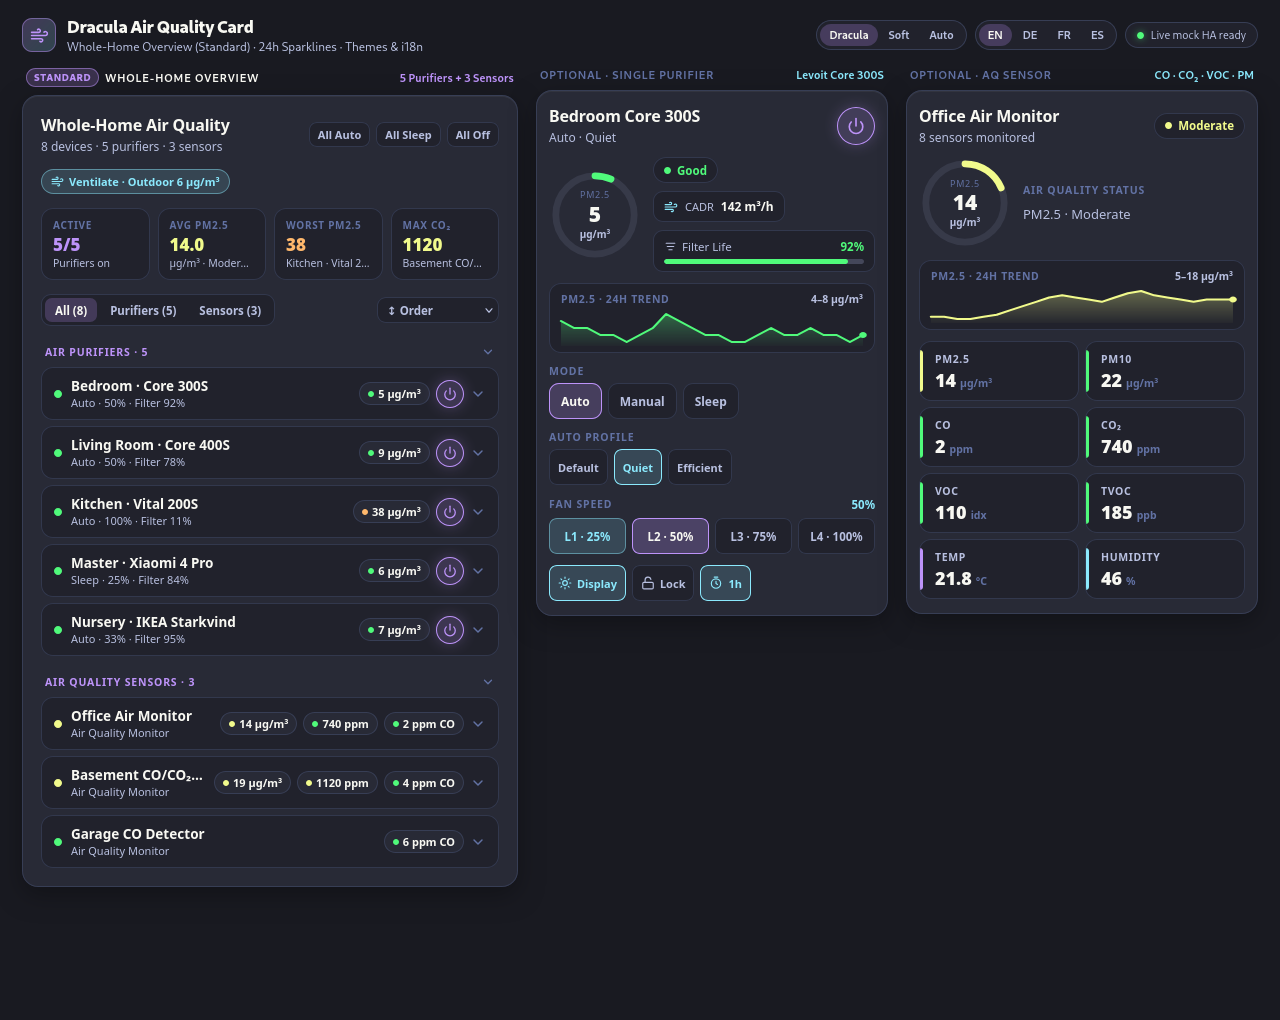
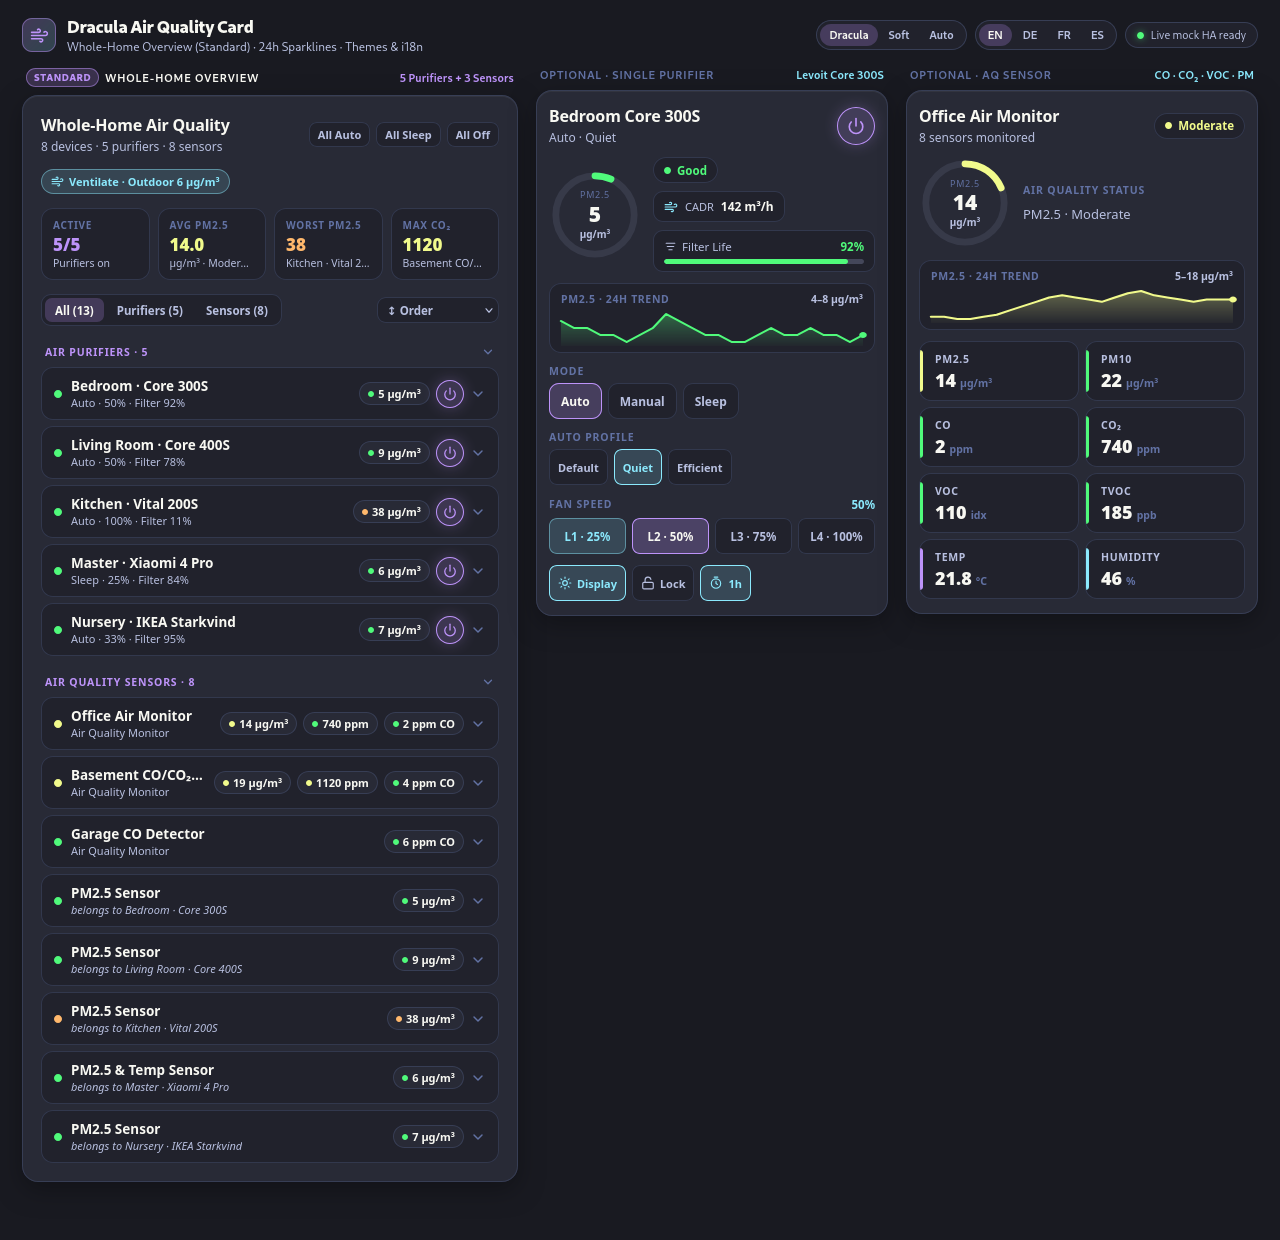
v1.5.0: Surface built-in purifier sensors in Air Quality Sensors group with italic attribution

diff --git a/dracula-air-quality-card.js b/dracula-air-quality-card.js
@@ -6,7 +6,7 @@
  *   3. Standalone Air Quality Sensor Mode (Optional — PM2.5/10/1, AQI, CO, CO2, VOC/tVOC, NOx/NO2, O3, HCHO, Radon, Temp, Humidity, Pressure)
  */
 
-const CARD_VERSION = "1.4.0";
+const CARD_VERSION = "1.5.0";
 const HISTORY_TTL_MS = 300_000;
 const HISTORY_CACHE = new Map();
 const HISTORY_INFLIGHT = new Set();
@@ -95,7 +95,7 @@ const I18N = {
     display: "Display", lock: "Lock", timer: "Timer", trend_24h: "24h Trend",
     sort_default: "Order", sort_pm25: "Worst PM2.5", sort_filter: "Low Filter", sort_name: "Name",
     devices_word: "devices", device_word: "device", sensors_monitored: "sensors monitored",
-    ventilate: "Ventilate", keep_closed: "Keep Closed", outdoor: "Outdoor",
+    ventilate: "Ventilate", keep_closed: "Keep Closed", outdoor: "Outdoor", belongs_to: "belongs to",
   },
   de: {
     good: "Gut", moderate: "Mäßig", sensitive: "Sensibel", unhealthy: "Ungesund",
@@ -114,7 +114,7 @@ const I18N = {
     display: "Display", lock: "Sperre", timer: "Timer", trend_24h: "24h Verlauf",
     sort_default: "Standard", sort_pm25: "PM2.5 hoch", sort_filter: "Filter niedrig", sort_name: "Name",
     devices_word: "Geräte", device_word: "Gerät", sensors_monitored: "Sensoren aktiv",
-    ventilate: "Lüften", keep_closed: "Geschlossen halten", outdoor: "Außen",
+    ventilate: "Lüften", keep_closed: "Geschlossen halten", outdoor: "Außen", belongs_to: "gehört zu",
   },
   fr: {
     good: "Bon", moderate: "Modéré", sensitive: "Sensible", unhealthy: "Malsain",
@@ -133,7 +133,7 @@ const I18N = {
     display: "Écran", lock: "Verrou", timer: "Minuterie", trend_24h: "Tendance 24h",
     sort_default: "Ordre", sort_pm25: "PM2.5 max", sort_filter: "Filtre bas", sort_name: "Nom",
     devices_word: "appareils", device_word: "appareil", sensors_monitored: "capteurs suivis",
-    ventilate: "Aérer", keep_closed: "Garder fermé", outdoor: "Extérieur",
+    ventilate: "Aérer", keep_closed: "Garder fermé", outdoor: "Extérieur", belongs_to: "appartient à",
   },
   es: {
     good: "Bueno", moderate: "Moderado", sensitive: "Sensible", unhealthy: "Insalubre",
@@ -152,7 +152,7 @@ const I18N = {
     display: "Pantalla", lock: "Bloqueo", timer: "Temporizador", trend_24h: "Tendencia 24h",
     sort_default: "Orden", sort_pm25: "Peor PM2.5", sort_filter: "Filtro bajo", sort_name: "Nombre",
     devices_word: "dispositivos", device_word: "dispositivo", sensors_monitored: "sensores activos",
-    ventilate: "Ventilar", keep_closed: "Mantener cerrado", outdoor: "Exterior",
+    ventilate: "Ventilar", keep_closed: "Mantener cerrado", outdoor: "Exterior", belongs_to: "pertenece a",
   },
 };
 
@@ -508,8 +508,8 @@ function resolveDeviceState(hass, itemConfig, discoveryCache = null, thresholds 
       const numVal = toNumber(st.state);
       if (numVal !== null) recordRollingPoint(entityId, numVal);
       sensors[key] = { entityId, raw: st.state, num: numVal, unit: st.attributes?.unit_of_measurement ?? SENSOR_META[key].defaultUnit };
-    } else if (explicitId) {
-      sensors[key] = { entityId: explicitId, raw: null, num: null, unit: SENSOR_META[key].defaultUnit };
+    } else if (explicitId || st) {
+      sensors[key] = { entityId: explicitId || entityId, raw: null, num: null, unit: st?.attributes?.unit_of_measurement ?? SENSOR_META[key].defaultUnit };
     }
   }
 
@@ -882,6 +882,7 @@ class DraculaAirQualityCard extends HTMLElement {
     this._config = {
       theme: "dracula", language: "auto", compact: false,
       show_header: true, show_cadr: true, show_filter: true, show_timer: true, show_sparklines: true,
+      include_purifier_sensors: true,
       group_by: "type", sort_by: "default", default_filter: "all", auto_discover: false,
       ...config,
     };
@@ -1040,9 +1041,12 @@ class DraculaAirQualityCard extends HTMLElement {
 
     if (action === "more-info") { e.stopPropagation(); return this._fireMoreInfo(target.dataset.entity); }
     if (action === "filter-reset") { e.stopPropagation(); return this._handleFilterReset(target.dataset.entity); }
-    if (action === "toggle-drawer" && idx !== null) {
-      this._expanded.has(idx) ? this._expanded.delete(idx) : this._expanded.add(idx);
-      this._lastRenderSig = null; return this._render();
+    if (action === "toggle-drawer") {
+      const rKey = target.dataset.rowKey ?? (idx !== null ? `d-${idx}` : null);
+      if (rKey !== null) {
+        this._expanded.has(rKey) ? this._expanded.delete(rKey) : this._expanded.add(rKey);
+        this._lastRenderSig = null; return this._render();
+      }
     }
     if (action === "toggle-group") {
       const k = target.dataset.value || "";
@@ -1269,7 +1273,7 @@ class DraculaAirQualityCard extends HTMLElement {
         ].filter(Boolean);
 
     const extraSensors = {};
-    for (const k of SENSOR_KEYS) if (dev.sensors[k] && k !== hero.key) extraSensors[k] = dev.sensors[k];
+    for (const k of SENSOR_KEYS) if (dev.sensors[k] && dev.sensors[k].raw !== null && k !== hero.key) extraSensors[k] = dev.sensors[k];
 
     return `
       <div class="card ${this._config.compact ? "compact" : ""}">
@@ -1351,13 +1355,43 @@ class DraculaAirQualityCard extends HTMLElement {
     const devices = rawList.map((item, idx) => {
       const dev = resolveDeviceState(this._hass, item, this._discoveryCache, this._thresholds);
       for (const id of dev.watchedIds) watched.add(id);
-      return { dev, idx };
+      return { dev, idx, rowKey: `d-${idx}` };
     });
     this._watchedIds = Array.from(watched);
 
     const purifiers = devices.filter((e) => e.dev.isPurifier);
     const sensorOnly = devices.filter((e) => !e.dev.isPurifier);
-    const hasBoth = purifiers.length > 0 && sensorOnly.length > 0;
+
+    // Synthesize companion sensor rows for purifiers with built-in AQ sensors (deduplicated from summary strip)
+    const purifierSensors = [];
+    if (this._config.include_purifier_sensors !== false) {
+      const titleOrder = ["pm25", "aqi", "co2", "co", "pm10", "voc", "tvoc", "no2", "o3", "hcho", "radon", "temperature", "humidity"];
+      for (const entry of purifiers) {
+        const sKeys = titleOrder.filter((k) => entry.dev.sensors[k]);
+        if (!sKeys.length) continue;
+        const primaryLabels = sKeys.slice(0, 2).map((k) => SENSOR_META[k].label);
+        const sensorTitle = primaryLabels.length === 2
+          ? `${primaryLabels[0]} & ${primaryLabels[1]} Sensor`
+          : `${primaryLabels[0]} Sensor`;
+        purifierSensors.push({
+          idx: entry.idx,
+          rowKey: `ps-${entry.idx}`,
+          dev: {
+            ...entry.dev,
+            isPurifier: false,
+            isPurifierSensor: true,
+            belongsTo: entry.dev.name,
+            name: sensorTitle,
+            isUnavailable: false,
+            parentOn: entry.dev.isOn,
+          },
+        });
+      }
+    }
+
+    const allSensors = [...sensorOnly, ...purifierSensors];
+    const displayEntries = [...purifiers, ...allSensors];
+    const hasBoth = purifiers.length > 0 && allSensors.length > 0;
     const activePurifiers = purifiers.filter((e) => e.dev.isOn).length;
 
     const pmRooms = devices.filter((e) => e.dev.sensors.pm25?.num !== null && e.dev.sensors.pm25?.num !== undefined);
@@ -1386,11 +1420,11 @@ class DraculaAirQualityCard extends HTMLElement {
       );
     };
 
-    const visible = devices.filter((e) => (activeFilter === "purifiers" ? e.dev.isPurifier : activeFilter === "sensors" ? !e.dev.isPurifier : true));
+    const visible = displayEntries.filter((e) => (activeFilter === "purifiers" ? e.dev.isPurifier : activeFilter === "sensors" ? !e.dev.isPurifier : true));
     const renderGroup = (gKey, label, items) => {
       const collapsed = this._collapsedGroups.has(gKey);
       const sorted = sortEntries(items);
-      return `<div class="group-section ${collapsed ? "collapsed" : ""}"><button type="button" class="group-header" data-action="toggle-group" data-value="${escapeHtml(gKey)}" aria-expanded="${!collapsed}"><span>${escapeHtml(label)} · ${sorted.length}</span><span class="g-chev">${ICONS.chevron}</span></button>${collapsed ? "" : `<div class="room-list">${sorted.map((e) => this._renderOverviewRow(e.dev, e.idx)).join("")}</div>`}</div>`;
+      return `<div class="group-section ${collapsed ? "collapsed" : ""}"><button type="button" class="group-header" data-action="toggle-group" data-value="${escapeHtml(gKey)}" aria-expanded="${!collapsed}"><span>${escapeHtml(label)} · ${sorted.length}</span><span class="g-chev">${ICONS.chevron}</span></button>${collapsed ? "" : `<div class="room-list">${sorted.map((e) => this._renderOverviewRow(e.dev, e.idx, e.rowKey)).join("")}</div>`}</div>`;
     };
 
     const groupBy = this._config.group_by || "type";
@@ -1398,7 +1432,7 @@ class DraculaAirQualityCard extends HTMLElement {
     if (!visible.length) {
       rowsHtml = `<div class="empty-state">Add purifiers/sensors to <code>devices</code> or set <code>auto_discover: true</code>.</div>`;
     } else if (groupBy === "none") {
-      rowsHtml = `<div class="room-list">${sortEntries(visible).map((e) => this._renderOverviewRow(e.dev, e.idx)).join("")}</div>`;
+      rowsHtml = `<div class="room-list">${sortEntries(visible).map((e) => this._renderOverviewRow(e.dev, e.idx, e.rowKey)).join("")}</div>`;
     } else if (groupBy === "room") {
       const groups = new Map();
       for (const e of visible) { const g = e.dev.group || "Other"; if (!groups.has(g)) groups.set(g, []); groups.get(g).push(e); }
@@ -1415,7 +1449,7 @@ class DraculaAirQualityCard extends HTMLElement {
             ? `<div class="header">
                 <div class="title-wrap">
                   <div class="title">${escapeHtml(this._config.name || this._t("whole_home_title"))}</div>
-                  <div class="subtitle">${devices.length} ${escapeHtml(this._t(devices.length === 1 ? "device_word" : "devices_word"))} · ${purifiers.length} ${escapeHtml(this._t("purifiers").toLowerCase())}${sensorOnly.length ? ` · ${sensorOnly.length} ${escapeHtml(this._t("sensors").toLowerCase())}` : ""}</div>
+                  <div class="subtitle">${devices.length} ${escapeHtml(this._t(devices.length === 1 ? "device_word" : "devices_word"))} · ${purifiers.length} ${escapeHtml(this._t("purifiers").toLowerCase())}${allSensors.length ? ` · ${allSensors.length} ${escapeHtml(this._t("sensors").toLowerCase())}` : ""}</div>
                 </div>
                 ${purifiers.length ? `<div class="master-bar"><button type="button" class="pill-btn xs" data-action="master" data-value="auto">${escapeHtml(this._t("all_auto"))}</button><button type="button" class="pill-btn xs" data-action="master" data-value="sleep">${escapeHtml(this._t("all_sleep"))}</button><button type="button" class="pill-btn xs" data-action="master" data-value="off">${escapeHtml(this._t("all_off"))}</button></div>` : ""}
               </div>`
@@ -1430,44 +1464,57 @@ class DraculaAirQualityCard extends HTMLElement {
           ${worstCoRoom ? `<div class="summary-tile alert"><span class="summary-k" style="color:var(--daq-red)">${escapeHtml(this._t("co_warning"))}</span><span class="summary-v" style="color:var(--daq-red)">${worstCoRoom.sensors.co?.num !== null && worstCoRoom.sensors.co?.num !== undefined ? `${formatNum(worstCoRoom.sensors.co.num, 0)} ppm` : "ALARM"}</span><span class="summary-sub">${escapeHtml(worstCoRoom.name)}</span></div>` : ""}
         </div>
         <div class="overview-toolbar">
-          ${hasBoth ? `<div class="filter-tabs" role="tablist"><button type="button" class="filter-tab ${activeFilter === "all" ? "active" : ""}" data-action="filter" data-value="all">${escapeHtml(this._t("all"))} (${devices.length})</button><button type="button" class="filter-tab ${activeFilter === "purifiers" ? "active" : ""}" data-action="filter" data-value="purifiers">${escapeHtml(this._t("purifiers"))} (${purifiers.length})</button><button type="button" class="filter-tab ${activeFilter === "sensors" ? "active" : ""}" data-action="filter" data-value="sensors">${escapeHtml(this._t("sensors"))} (${sensorOnly.length})</button></div>` : `<span></span>`}
-          ${devices.length > 1 ? `<select class="sort-select" data-action="sort" aria-label="Sort devices"><option value="default" ${activeSort === "default" ? "selected" : ""}>↕ ${escapeHtml(this._t("sort_default"))}</option><option value="pm25" ${activeSort === "pm25" ? "selected" : ""}>↕ ${escapeHtml(this._t("sort_pm25"))}</option><option value="filter" ${activeSort === "filter" ? "selected" : ""}>↕ ${escapeHtml(this._t("sort_filter"))}</option><option value="name" ${activeSort === "name" ? "selected" : ""}>↕ ${escapeHtml(this._t("sort_name"))}</option></select>` : ""}
+          ${hasBoth ? `<div class="filter-tabs" role="tablist"><button type="button" class="filter-tab ${activeFilter === "all" ? "active" : ""}" data-action="filter" data-value="all">${escapeHtml(this._t("all"))} (${displayEntries.length})</button><button type="button" class="filter-tab ${activeFilter === "purifiers" ? "active" : ""}" data-action="filter" data-value="purifiers">${escapeHtml(this._t("purifiers"))} (${purifiers.length})</button><button type="button" class="filter-tab ${activeFilter === "sensors" ? "active" : ""}" data-action="filter" data-value="sensors">${escapeHtml(this._t("sensors"))} (${allSensors.length})</button></div>` : `<span></span>`}
+          ${displayEntries.length > 1 ? `<select class="sort-select" data-action="sort" aria-label="Sort devices"><option value="default" ${activeSort === "default" ? "selected" : ""}>↕ ${escapeHtml(this._t("sort_default"))}</option><option value="pm25" ${activeSort === "pm25" ? "selected" : ""}>↕ ${escapeHtml(this._t("sort_pm25"))}</option><option value="filter" ${activeSort === "filter" ? "selected" : ""}>↕ ${escapeHtml(this._t("sort_filter"))}</option><option value="name" ${activeSort === "name" ? "selected" : ""}>↕ ${escapeHtml(this._t("sort_name"))}</option></select>` : ""}
         </div>
         ${rowsHtml}
       </div>
     `;
   }
 
-  _renderOverviewRow(dev, idx) {
-    const isExpanded = this._expanded.has(idx);
-    const pm = dev.sensors.pm25, co2 = dev.sensors.co2, co = dev.sensors.co;
+  _renderOverviewRow(dev, idx, rowKey = `d-${idx}`) {
+    const isExpanded = this._expanded.has(rowKey);
+    const pm = dev.sensors.pm25, co2 = dev.sensors.co2, co = dev.sensors.co, aqi = dev.sensors.aqi;
     const pmEval = pm?.num !== null && pm?.num !== undefined ? evaluatePM25(pm.num, this._thresholds, this._lang) : null;
     const co2Eval = co2?.num !== null && co2?.num !== undefined ? evaluateCO2(co2.num, this._thresholds, this._lang) : null;
     const coEval = co?.num !== null && co?.num !== undefined ? evaluateCO(co.num, this._thresholds, this._lang) : null;
+    const aqiEval = aqi && !isUnavailable(aqi.raw) ? evaluateAQI(aqi.raw, this._lang) : null;
+    const hasLiveReading = Boolean(pmEval || co2Eval || coEval || aqiEval || dev.coAlarm);
 
-    const dotColor = dev.coDanger ? "var(--daq-red)" : dev.isPurifier ? (dev.isOn ? "var(--daq-green)" : "var(--daq-muted)") : pmEval?.color || co2Eval?.color || coEval?.color || "var(--daq-cyan)";
-    const subText = dev.isUnavailable
-      ? this._t("offline")
+    const dotColor = dev.coDanger
+      ? "var(--daq-red)"
       : dev.isPurifier
-      ? dev.isOn
-        ? [dev.currentMode ? titleCase(dev.currentMode) : "On", dev.percentage !== null ? `${Math.round(dev.percentage)}%` : null, dev.filter?.num !== null && dev.filter?.num !== undefined ? `Filter ${Math.round(dev.filter.num)}%` : null].filter(Boolean).join(" · ")
-        : this._t("off")
-      : dev.coAlarm ? `${dev.coAlarm.type} Active` : this._t("air_quality_monitor");
+      ? (dev.isOn ? "var(--daq-green)" : "var(--daq-muted)")
+      : pmEval?.color || co2Eval?.color || coEval?.color || aqiEval?.color || (dev.isPurifierSensor ? "var(--daq-muted)" : "var(--daq-cyan)");
+
+    const subHtml = dev.isPurifierSensor
+      ? `<em>${escapeHtml(this._t("belongs_to"))} ${escapeHtml(dev.belongsTo)}</em>`
+      : escapeHtml(
+          dev.isUnavailable
+            ? this._t("offline")
+            : dev.isPurifier
+            ? dev.isOn
+              ? [dev.currentMode ? titleCase(dev.currentMode) : "On", dev.percentage !== null ? `${Math.round(dev.percentage)}%` : null, dev.filter?.num !== null && dev.filter?.num !== undefined ? `Filter ${Math.round(dev.filter.num)}%` : null].filter(Boolean).join(" · ")
+              : this._t("off")
+            : dev.coAlarm ? `${dev.coAlarm.type} Active` : this._t("air_quality_monitor")
+        );
 
     const idxAttr = `data-idx="${idx}"`;
     return `
       <div class="room-item ${isExpanded ? "expanded" : ""}">
-        <div class="room-row" role="button" tabindex="0" aria-expanded="${isExpanded}" data-action="toggle-drawer" ${idxAttr}>
+        <div class="room-row" role="button" tabindex="0" aria-expanded="${isExpanded}" data-action="toggle-drawer" data-row-key="${escapeHtml(rowKey)}" ${idxAttr}>
           <div class="room-left">
             <span class="status-dot" style="background:${dotColor}"></span>
-            <div class="room-meta"><span class="room-name">${escapeHtml(dev.name)}</span><span class="room-sub">${escapeHtml(subText)}</span></div>
+            <div class="room-meta"><span class="room-name">${escapeHtml(dev.name)}</span><span class="room-sub">${subHtml}</span></div>
           </div>
           <div class="room-right">
             ${dev.isUnavailable ? `<span class="offline-badge">${escapeHtml(this._t("offline"))}</span>` : ""}
             ${dev.isPurifier && dev.filterLow ? `<span class="filter-low-badge" title="Filter replacement needed">${ICONS.filter} Low</span>` : ""}
             ${pmEval ? `<span class="mini-badge" title="PM2.5"><span class="dot" style="background:${pmEval.color}"></span>${formatNum(pm.num, 0)} µg/m³</span>` : ""}
+            ${!pmEval && aqiEval ? `<span class="mini-badge" title="AQI"><span class="dot" style="background:${aqiEval.color}"></span>AQI ${aqi.num !== null ? formatNum(aqi.num, 0) : escapeHtml(titleCase(aqi.raw))}</span>` : ""}
             ${co2Eval ? `<span class="mini-badge" title="CO₂"><span class="dot" style="background:${co2Eval.color}"></span>${formatNum(co2.num, 0)} ppm</span>` : ""}
             ${coEval || dev.coAlarm ? `<span class="mini-badge ${dev.coDanger ? "alert" : ""}" title="CO"><span class="dot" style="background:${dev.coDanger ? "var(--daq-red)" : coEval.color}"></span>${coEval ? `${formatNum(co.num, 0)} ppm CO` : "CO ALARM"}</span>` : ""}
+            ${dev.isPurifierSensor && !hasLiveReading ? `<span class="offline-badge">${escapeHtml(this._t("standby"))}</span>` : ""}
             ${dev.isPurifier ? `<button type="button" class="power-btn sm ${dev.isOn ? "on" : ""}" data-action="power" ${idxAttr} aria-label="Toggle ${escapeHtml(dev.name)}">${ICONS.power}</button>` : ""}
             <span class="chevron">${ICONS.chevron}</span>
           </div>
@@ -1566,7 +1613,7 @@ class DraculaAirQualityCardEditor extends HTMLElement {
       const next = { ...this._config, devices: list }; delete next.entities;
       return this._emit(next);
     }
-    const boolKeys = ["compact", "show_header", "show_sparklines", "show_cadr", "show_filter", "show_timer", "auto_discover"];
+    const boolKeys = ["compact", "show_header", "show_sparklines", "show_cadr", "show_filter", "show_timer", "auto_discover", "include_purifier_sensors"];
     if (boolKeys.includes(el.id)) {
       this._emit({ ...this._config, [el.id]: el.checked });
       if (el.id === "auto_discover") this._render();
@@ -1622,7 +1669,7 @@ class DraculaAirQualityCardEditor extends HTMLElement {
           <label class="check"><input type="checkbox" id="show_header" ${this._config.show_header !== false ? "checked" : ""} /> Show Header</label>
           <label class="check"><input type="checkbox" id="compact" ${this._config.compact ? "checked" : ""} /> Compact</label>
           <label class="check"><input type="checkbox" id="show_sparklines" ${this._config.show_sparklines !== false ? "checked" : ""} /> 24h Sparklines</label>
-          ${mode === "overview" ? `<label class="check"><input type="checkbox" id="auto_discover" ${this._config.auto_discover ? "checked" : ""} /> Auto-Discover</label>` : ""}
+          ${mode === "overview" ? `<label class="check"><input type="checkbox" id="auto_discover" ${this._config.auto_discover ? "checked" : ""} /> Auto-Discover</label><label class="check"><input type="checkbox" id="include_purifier_sensors" ${this._config.include_purifier_sensors !== false ? "checked" : ""} /> Purifier Sensors</label>` : ""}
           ${mode === "purifier" ? `<label class="check"><input type="checkbox" id="show_cadr" ${this._config.show_cadr !== false ? "checked" : ""} /> CADR</label><label class="check"><input type="checkbox" id="show_filter" ${this._config.show_filter !== false ? "checked" : ""} /> Filter</label><label class="check"><input type="checkbox" id="show_timer" ${this._config.show_timer !== false ? "checked" : ""} /> Timer</label>` : ""}
         </div>
         ${mode === "purifier" ? `<div class="section"><div class="section-title">Purifier Entity</div><div class="field"><label>Fan Entity</label><input type="text" id="entity" list="fan-list" value="${escapeHtml(this._config.entity || "")}" placeholder="fan.bedroom_air_purifier" /><datalist id="fan-list">${fans.map((id) => `<option value="${escapeHtml(id)}">`).join("")}</datalist></div></div>` : ""}

diff --git a/README.md b/README.md
@@ -18,6 +18,7 @@ A zero-dependency Home Assistant Lovelace custom card built around a **Whole-Hom
   - Live summary strip showing **Active Purifiers**, **Average PM2.5**, **Worst PM2.5**, **Max CO₂**, and a red **CO Warning** tile if any sensor detects elevated CO (`>= 35 ppm`) or an active CO/gas alarm.
   - One-tap master controls (**All Auto**, **All Sleep**, **All Off**) across all purifiers.
   - Native **`group_by`** sections (`type`, `room`, or `none`) with collapsible group headers (`Air Purifiers · N`, `Air Quality Sensors · N`) and **`All | Purifiers | Sensors`** filter tabs.
+  - **Built-in Purifier Sensors (`include_purifier_sensors: true`)** — Purifiers with onboard air quality sensors automatically appear in the **Air Quality Sensors** group (and `Sensors` tab) with *italic* `belongs to <Purifier>` attribution (localized in EN/DE/FR/ES) and a dedicated sensor-only drawer, without double-counting summary averages.
   - **Smart Sorting (`sort_by`)** — Sort rooms within each group by worst PM2.5 (`pm25`), lowest filter life (`filter`), or alphabetically (`name`), with a live sort selector in the header.
   - Compact expandable room rows that scale cleanly to 10+ rooms with inline purifier controls, 24h trend sparklines, and full sensor drawers.
 - **Contextual Ventilation Advisor (`outdoor_pm25_entity` / `outdoor_aqi_entity`)** — Stays completely hidden when indoor air is clean. When indoor CO₂ (`>= 1000 ppm`), PM2.5 (`> 25 µg/m³`), or VOC rises, displays a compact localized pill advising **Ventilate · Outdoor X µg/m³** (cyan, when outdoor air is clean) or **Keep Closed · Outdoor X µg/m³** (amber, when outdoor air is polluted).
@@ -252,6 +253,7 @@ sensors:
 | `group_by` | `string` | `"type"` | Overview grouping mode: `"type"` (`Air Purifiers` / `Air Quality Sensors`), `"room"` (by each item's `room` / `group` label), or `"none"` (flat list) |
 | `sort_by` | `string` | `"default"` | Overview room sorting: `"default"`, `"pm25"` (worst first), `"filter"` (lowest first), or `"name"` (A–Z) |
 | `default_filter` | `string` | `"all"` | Initial active tab in Overview Mode: `"all"`, `"purifiers"`, or `"sensors"` |
+| `include_purifier_sensors` | `boolean` | `true` | List each purifier's built-in air quality sensor as its own row in the **Air Quality Sensors** group with *italic* `belongs to <Purifier>` attribution (summary averages are never double-counted) |
 | `show_header` | `boolean` | `true` | Show or hide the card header (set `false` to embed cleanly in tabbed dashboards) |
 | `outdoor_pm25_entity` | `string` | — | Outdoor PM2.5 sensor for the contextual Ventilation Advisor pill |
 | `outdoor_aqi_entity` | `string` | — | Optional outdoor AQI sensor fallback for the Ventilation Advisor pill |
